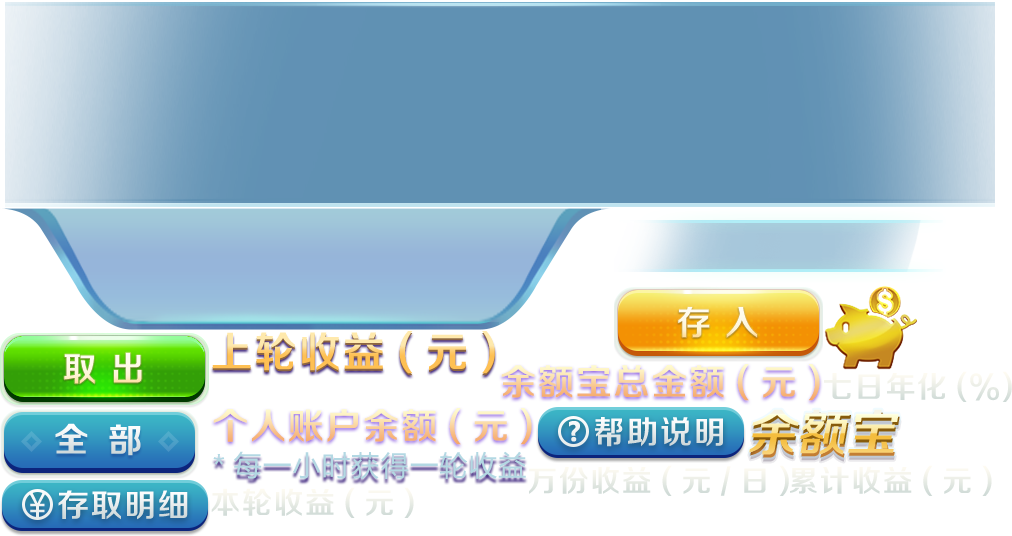
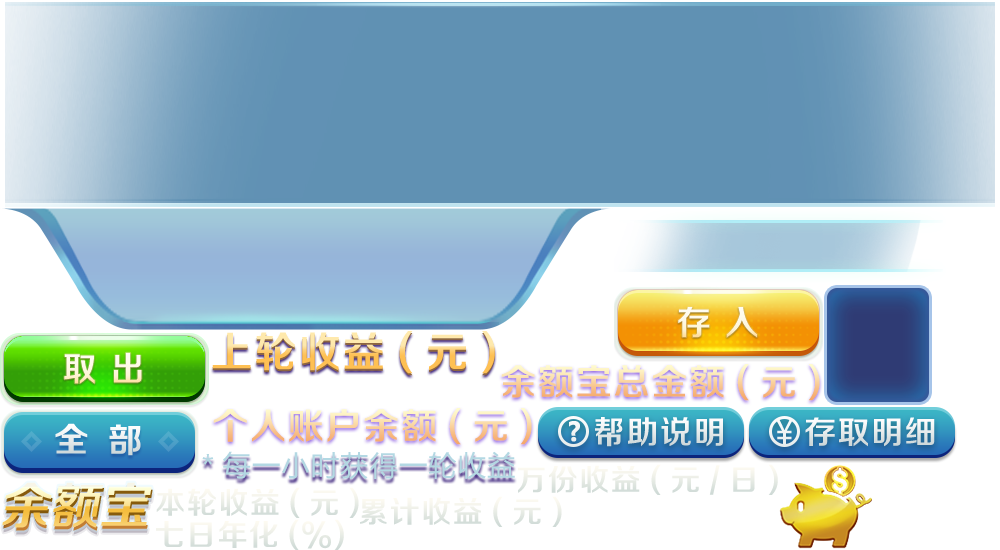
[bug]解决android 保存图片问题

Changed region(s): [[0.0, 0.0, 1.0, 1.0]]

diff --git a/android/app/src/main/assets/gamelobby/js/ui/layaUI.max.all.js b/android/app/src/main/assets/gamelobby/js/ui/layaUI.max.all.js
@@ -105,7 +105,7 @@ var ui;
                     _super.prototype.createChildren.call(this);
                     this.createView(ui.dlg.agent.AgentHelpViewUI.uiView);
                 };
-                AgentHelpViewUI.uiView = { "type": "View", "props": { "width": 1062, "height": 640 }, "child": [{ "type": "Label", "props": { "y": 0, "x": 0, "width": 1062, "var": "titleTxt", "valign": "top", "text": "label", "height": 40, "fontSize": 25, "color": "#ffba25", "align": "center" } }, { "type": "Panel", "props": { "y": 40, "x": 0, "width": 1062, "var": "itemPanel", "height": 600 }, "child": [{ "type": "Image", "props": { "y": 0, "x": 0, "width": 1062, "skin": "ui/agent/img_daili_shuoming03.png" } }] }] };
+                AgentHelpViewUI.uiView = { "type": "View", "props": { "width": 1062, "height": 640 }, "child": [{ "type": "Label", "props": { "y": 0, "x": 0, "width": 1062, "var": "titleTxt", "valign": "top", "text": "label", "height": 40, "fontSize": 25, "color": "#ffba25", "align": "center" } }, { "type": "Panel", "props": { "y": 40, "x": 0, "width": 1062, "var": "itemPanel", "height": 600 }, "child": [{ "type": "Image", "props": { "y": 0, "x": 0, "width": 1062, "skin": "ui/agent/img_dlsm-fyblb_nr.png" } }] }] };
                 return AgentHelpViewUI;
             }(View));
             agent.AgentHelpViewUI = AgentHelpViewUI;
@@ -148,7 +148,7 @@ var ui;
                     _super.prototype.createChildren.call(this);
                     this.createView(ui.dlg.agent.AgentQrDlgUI.uiView);
                 };
-                AgentQrDlgUI.uiView = { "type": "Dialog", "props": { "width": 508, "height": 750 }, "child": [{ "type": "Image", "props": { "y": 0, "width": 800, "var": "bgmc", "skin": "ui/common/img_com_xiankuang.png", "height": 750, "centerX": 0, "sizeGrid": "15,15,15,16" } }, { "type": "Image", "props": { "y": 14, "skin": "ui/agent/img_dlzx-dlxx_ewbg.png", "centerX": 0 }, "child": [{ "type": "Image", "props": { "y": 606, "x": 104, "var": "saveBtn", "skin": "ui/agent/btn_dlzx-dlxx_djbc.png" } }, { "type": "Image", "props": { "y": 209, "x": 91, "width": 326, "var": "qrIcon", "height": 326 } }] }] };
+                AgentQrDlgUI.uiView = { "type": "Dialog", "props": { "width": 1334, "height": 750 }, "child": [{ "type": "Box", "props": { "width": 1334, "var": "posterNode", "height": 750, "centerY": 0, "centerX": 0 }, "child": [{ "type": "Image", "props": { "y": 0, "x": -145, "var": "bgImage", "skin": "ui/agent/qrposter/img_dlewm_bg2.png", "centerY": 0, "centerX": 0 } }, { "type": "Image", "props": { "y": 130, "x": 1003, "top": 130, "skin": "ui/agent/qrposter/img_dlewm_f-sys.png", "right": 111 } }, { "type": "Image", "props": { "y": 216, "x": 365, "var": "gameImage", "skin": "ui/agent/qrposter/img_dlewm_icon4.png" } }, { "type": "Image", "props": { "y": 36, "x": -3, "var": "girlImage", "skin": "ui/agent/qrposter/img_dlewm_mn1.png" } }, { "type": "Image", "props": { "y": 666, "x": 332, "skin": "ui/agent/qrposter/img_dlewm_f-wmk.png", "left": 332, "bottom": 16 } }, { "type": "Box", "props": { "y": 19, "x": 411, "width": 507, "var": "logoBox", "top": 19, "left": 411, "height": 191 }, "child": [{ "type": "Image", "props": { "var": "logoImage", "centerY": 0, "centerX": 0 } }] }, { "type": "Label", "props": { "x": 448, "wordWrap": true, "width": 475, "var": "msgLabel", "valign": "middle", "top": 200, "skewX": -10, "pivotX": -2, "height": 88, "fontSize": 44, "font": "Microsoft YaHei", "color": "#fbe66f", "bold": false, "align": "center" } }, { "type": "Image", "props": { "y": 217, "x": 942, "width": 326, "var": "qrIcon", "top": 217, "right": 66, "height": 326 } }] }, { "type": "Box", "props": { "width": 1334, "var": "ctrlNode", "height": 750, "centerY": 0, "centerX": 0 }, "child": [{ "type": "Image", "props": { "y": 558, "x": 996, "var": "saveBtn", "top": 558, "skin": "ui/agent/qrposter/btn_dlewm_yjbc.png", "right": 119 } }, { "type": "Image", "props": { "y": 57, "x": 1254, "var": "closeBtn", "top": 17, "skin": "ui/common/newclose.png", "right": 42, "anchorY": 0.5, "anchorX": 0.5 } }] }] };
                 return AgentQrDlgUI;
             }(Dialog));
             agent.AgentQrDlgUI = AgentQrDlgUI;
@@ -549,7 +549,7 @@ var ui;
                 _super.prototype.createChildren.call(this);
                 this.createView(ui.dlg.BalanceDlgUI.uiView);
             };
-            BalanceDlgUI.uiView = { "type": "Dialog", "props": { "width": 1334, "height": 750 }, "child": [{ "type": "Image", "props": { "skin": "ui/panel_common/img_com_quanping_di.jpg", "centerY": 0, "centerX": 0 } }, { "type": "Image", "props": { "y": 0, "var": "TLgroup", "skin": "ui/panel_common/img_com_quanping_ce_biaotou.png", "left": -48 }, "child": [{ "type": "Image", "props": { "y": 24, "x": 187, "skin": "ui/balance/icon_yeb_yeb-1.png" } }, { "type": "Image", "props": { "y": 10, "x": 62, "skin": "ui/balance/icon_yeb_yeb-img.png" } }] }, { "type": "Box", "props": { "y": 0, "var": "TRgroup", "right": -55 }, "child": [{ "type": "Image", "props": { "x": 460, "var": "backBtn", "skin": "ui/common/img_com_quanping_guanbi01.png" }, "child": [{ "type": "Image", "props": { "y": 14, "x": 122, "skin": "ui/common/img_com_quanping_guanbi02.png" } }] }, { "type": "Image", "props": { "y": 46, "x": 154, "var": "helpBtn", "skin": "ui/balance/btn_yeb_bzsm.png", "anchorY": 0.5, "anchorX": 0.5 } }, { "type": "Image", "props": { "y": 46, "x": 378, "var": "accessBtn", "skin": "ui/balance/btn_yeb_cqmx.png", "anchorY": 0.5, "anchorX": 0.5 } }] }, { "type": "Box", "props": { "y": 168, "centerX": 0 }, "child": [{ "type": "Image", "props": { "width": 1294, "skin": "ui/balance/img_cz_kuang.png", "height": 176, "sizeGrid": "30,40,30,40" }, "child": [{ "type": "Image", "props": { "y": 0, "x": 340, "skin": "ui/balance/img_yeb_kuang-bt.png" } }, { "type": "Image", "props": { "y": 12, "x": 503, "skin": "ui/balance/img_yeb_f-srsy.png" } }, { "type": "Image", "props": { "y": 132, "x": 488, "skin": "ui/balance/img_yeb_f-mxshd.png" } }, { "type": "Image", "props": { "y": 51, "x": 455, "width": 384, "skin": "ui/balance/img_dating_qian_di.png", "height": 76 } }, { "type": "Image", "props": { "y": 64, "x": 943, "skin": "ui/balance/img_yeb_f-grzh.png" } }, { "type": "Image", "props": { "y": 64, "x": 25, "skin": "ui/balance/img_yeb_f-yeb.png" } }, { "type": "Sprite", "props": { "y": 117, "x": 87, "width": 200, "var": "bitBox1", "height": 40 } }, { "type": "Sprite", "props": { "y": 117, "x": 1005, "width": 200, "var": "bitBox3", "height": 40 } }, { "type": "Sprite", "props": { "y": 69, "x": 547, "width": 200, "var": "bitBox2", "height": 40 } }] }, { "type": "Image", "props": { "y": 196, "width": 1294, "skin": "ui/balance/img_cz_kuang.png", "height": 116, "sizeGrid": "30,40,30,40" }, "child": [{ "type": "Image", "props": { "y": 24, "x": 396, "skin": "ui/balance/img_yeb_f-brsy.png" } }, { "type": "Image", "props": { "y": 24, "x": 101, "skin": "ui/balance/img_yeb_f-ljsy.png" } }, { "type": "Image", "props": { "y": 24, "x": 994, "skin": "ui/balance/img_yeb_f-qrnh.png" } }, { "type": "Image", "props": { "y": 24, "x": 662, "skin": "ui/balance/img_yeb_f-wfsy.png" } }, { "type": "Sprite", "props": { "y": 63, "x": 102, "width": 200, "var": "bitBox4", "height": 40 } }, { "type": "Sprite", "props": { "y": 63, "x": 397, "width": 200, "var": "bitBox5", "height": 40 } }, { "type": "Sprite", "props": { "y": 63, "x": 692, "width": 200, "var": "bitBox6", "height": 40 } }, { "type": "Sprite", "props": { "y": 63, "x": 988, "width": 200, "var": "bitBox7", "height": 40 } }] }, { "type": "Image", "props": { "y": 388, "x": 297, "skin": "ui/balance/img_yeb_f-srje.png" } }, { "type": "Image", "props": { "y": 379, "x": 474, "width": 414, "skin": "ui/res_login/img_dl_shurukuang04.png", "height": 50, "sizeGrid": "20,20,20,20" }, "child": [{ "type": "TextInput", "props": { "y": 2, "x": 15, "width": 345, "var": "inputTxt", "valign": "middle", "type": "text", "restrict": "0123456789.", "promptColor": "#93afc0", "prompt": "请输入金额......", "height": 46, "fontSize": 30, "color": "#ffffff" } }, { "type": "Image", "props": { "y": 24, "x": 383, "var": "clearBtn", "skin": "ui/balance/btn_yeb_sr-qx.png", "anchorY": 0.5, "anchorX": 0.5 } }] }, { "type": "Image", "props": { "y": 404, "x": 1002, "var": "allBtn", "skin": "ui/balance/btn_yeb_qb.png", "anchorY": 0.5, "anchorX": 0.5 } }, { "type": "Image", "props": { "y": 499, "x": 472, "var": "setBtn", "skin": "ui/balance/btn_yeb_cr.png", "anchorY": 0.5, "anchorX": 0.5 } }, { "type": "Image", "props": { "y": 499, "x": 814, "var": "getBtn", "skin": "ui/balance/btn_yeb_qc.png", "anchorY": 0.5, "anchorX": 0.5 } }] }] };
+            BalanceDlgUI.uiView = { "type": "Dialog", "props": { "width": 1334, "height": 750 }, "child": [{ "type": "Image", "props": { "skin": "ui/panel_common/img_com_quanping_di.jpg", "centerY": 0, "centerX": 0 } }, { "type": "Image", "props": { "y": 0, "var": "TLgroup", "skin": "ui/panel_common/img_com_quanping_ce_biaotou.png", "left": -48 }, "child": [{ "type": "Image", "props": { "y": 24, "x": 187, "skin": "ui/balance/icon_yeb_yeb-1.png" } }, { "type": "Image", "props": { "y": 10, "x": 62, "skin": "ui/balance/icon_yeb_yeb-img.png" } }] }, { "type": "Box", "props": { "y": 0, "var": "TRgroup", "right": -55 }, "child": [{ "type": "Image", "props": { "x": 460, "var": "backBtn", "skin": "ui/common/img_com_quanping_guanbi01.png" }, "child": [{ "type": "Image", "props": { "y": 14, "x": 122, "skin": "ui/common/img_com_quanping_guanbi02.png" } }] }, { "type": "Image", "props": { "y": 46, "x": 154, "var": "helpBtn", "skin": "ui/balance/btn_yeb_bzsm.png", "anchorY": 0.5, "anchorX": 0.5 } }, { "type": "Image", "props": { "y": 46, "x": 378, "var": "accessBtn", "skin": "ui/balance/btn_yeb_cqmx.png", "anchorY": 0.5, "anchorX": 0.5 } }] }, { "type": "Box", "props": { "y": 168, "centerX": 0 }, "child": [{ "type": "Image", "props": { "width": 1294, "skin": "ui/balance/img_cz_kuang.png", "height": 176, "sizeGrid": "30,40,30,40" }, "child": [{ "type": "Image", "props": { "y": 0, "x": 340, "skin": "ui/balance/img_yeb_kuang-bt.png" } }, { "type": "Image", "props": { "y": 12, "x": 503, "skin": "ui/balance/img_yeb_f-srsy.png" } }, { "type": "Image", "props": { "y": 132, "x": 488, "skin": "ui/balance/img_yeb_f-mxshd.png" } }, { "type": "Image", "props": { "y": 51, "x": 455, "width": 384, "skin": "ui/balance/img_dating_qian_di.png", "height": 76 } }, { "type": "Image", "props": { "y": 64, "x": 943, "skin": "ui/balance/img_yeb_f-grzh.png" } }, { "type": "Image", "props": { "y": 64, "x": 25, "skin": "ui/balance/img_yeb_f-yeb.png" } }, { "type": "Sprite", "props": { "y": 117, "x": 87, "width": 200, "var": "bitBox1", "height": 40 } }, { "type": "Sprite", "props": { "y": 117, "x": 1005, "width": 200, "var": "bitBox3", "height": 40 } }, { "type": "Sprite", "props": { "y": 69, "x": 547, "width": 200, "var": "bitBox2", "height": 40 } }] }, { "type": "Image", "props": { "y": 196, "width": 1294, "skin": "ui/balance/img_cz_kuang.png", "height": 116, "sizeGrid": "30,40,30,40" }, "child": [{ "type": "Image", "props": { "y": 24, "x": 396, "skin": "ui/balance/img_yeb_f-brsy.png" } }, { "type": "Image", "props": { "y": 24, "x": 101, "skin": "ui/balance/img_yeb_f-ljsy.png" } }, { "type": "Image", "props": { "y": 24, "x": 994, "skin": "ui/balance/img_yeb_f-qrnh.png" } }, { "type": "Image", "props": { "y": 24, "x": 662, "skin": "ui/balance/img_yeb_f-wfsy.png" } }, { "type": "Sprite", "props": { "y": 63, "x": 102, "width": 200, "var": "bitBox4", "height": 40 } }, { "type": "Sprite", "props": { "y": 63, "x": 397, "width": 200, "var": "bitBox5", "height": 40 } }, { "type": "Sprite", "props": { "y": 63, "x": 692, "width": 200, "var": "bitBox6", "height": 40 } }, { "type": "Sprite", "props": { "y": 63, "x": 988, "width": 200, "var": "bitBox7", "height": 40 } }, { "type": "Image", "props": { "y": 0, "x": 0, "width": 1288, "var": "weihuMask", "skin": "ui/balance/img_dlzx-dlxx_bc.png", "sizeGrid": "40,40,40,40", "height": 120, "alpha": 0.9 }, "child": [{ "type": "Label", "props": { "text": "系统维护中,暂停结算余额宝收益,如有疑问请联系客服", "fontSize": 38, "color": "#d0e8f3", "centerY": 0, "centerX": 0 } }] }] }, { "type": "Image", "props": { "y": 388, "x": 297, "skin": "ui/balance/img_yeb_f-srje.png" } }, { "type": "Image", "props": { "y": 379, "x": 474, "width": 414, "skin": "ui/res_login/img_dl_shurukuang04.png", "height": 50, "sizeGrid": "20,20,20,20" }, "child": [{ "type": "TextInput", "props": { "y": 2, "x": 15, "width": 345, "var": "inputTxt", "valign": "middle", "type": "text", "restrict": "0123456789.", "promptColor": "#93afc0", "prompt": "请输入金额......", "height": 46, "fontSize": 30, "color": "#ffffff" } }, { "type": "Image", "props": { "y": 24, "x": 383, "var": "clearBtn", "skin": "ui/balance/btn_yeb_sr-qx.png", "anchorY": 0.5, "anchorX": 0.5 } }] }, { "type": "Image", "props": { "y": 404, "x": 1002, "var": "allBtn", "skin": "ui/balance/btn_yeb_qb.png", "anchorY": 0.5, "anchorX": 0.5 } }, { "type": "Image", "props": { "y": 499, "x": 472, "var": "setBtn", "skin": "ui/balance/btn_yeb_cr.png", "anchorY": 0.5, "anchorX": 0.5 } }, { "type": "Image", "props": { "y": 499, "x": 814, "var": "getBtn", "skin": "ui/balance/btn_yeb_qc.png", "anchorY": 0.5, "anchorX": 0.5 } }] }] };
             return BalanceDlgUI;
         }(Dialog));
         dlg.BalanceDlgUI = BalanceDlgUI;
@@ -742,6 +742,25 @@ var ui;
             return FullMyCenterDlgUI;
         }(Dialog));
         dlg.FullMyCenterDlgUI = FullMyCenterDlgUI;
+    })(dlg = ui.dlg || (ui.dlg = {}));
+})(ui || (ui = {}));
+(function (ui) {
+    var dlg;
+    (function (dlg) {
+        var GameUpdateNoticeUI = /** @class */ (function (_super) {
+            __extends(GameUpdateNoticeUI, _super);
+            function GameUpdateNoticeUI() {
+                return _super.call(this) || this;
+            }
+            GameUpdateNoticeUI.prototype.createChildren = function () {
+                View.regComponent("HTMLDivElement", laya.html.dom.HTMLDivElement);
+                _super.prototype.createChildren.call(this);
+                this.createView(ui.dlg.GameUpdateNoticeUI.uiView);
+            };
+            GameUpdateNoticeUI.uiView = { "type": "Dialog", "props": { "width": 1035, "height": 633 }, "child": [{ "type": "Image", "props": { "skin": "ui/res_login/img_dl_whgg.png", "centerY": 0, "centerX": 0, "anchorX": 0 }, "child": [{ "type": "Image", "props": { "y": 25, "x": 428, "skin": "ui/res_login/img_dl_bt01.png" } }, { "type": "Image", "props": { "y": 99, "x": 26, "width": 984, "skin": "ui/res_login/img_com_xiankuang.png", "sizeGrid": "10,10,10,10", "height": 435 }, "child": [{ "type": "Panel", "props": { "var": "panel", "vScrollBarSkin": "“”", "top": 2, "right": 2, "left": 2, "bottom": 2 }, "child": [{ "type": "HTMLDivElement", "props": { "y": 10, "x": 10, "width": 960, "var": "htmlText", "innerHTML": "<span style='color:#FFFFFF;fontSize:30'>-本次更新维护时间:</span> <span style='color:#fff200;fontSize:24'>Invalid Date~Invalid Date</span> <span style='color:#FFFFFF;fontSize:30'>abctest</span> <span style='color:#FFFFFF;fontSize:24'>1.sahkjdsahdhkjashkjdahkjsdhkjashkjdhkjashkjdsahkjdhkjashkjdhkjasdhkjsahkjdhkjsahkjdhkjasdhkjasdhkjashkjdhkjashkjdhkjsadhkjahkjsdhkjashkjdhkjasdhkjhkjsahkjdsadsahkjdhkjsadadshkj, 2.sadahsdhkjahkjsdhkjashkjdhkjashkjdhkjashkjdhkjashkjdhkjashkjdhkjasdhkjahkjsdhkjsahkjdhkjsadhkjahkjsdhkjsahkjd 3.ashjdkjsadhkjhkjashkjdhkjsahkjdhkjashkjdasdasj</span>", "height": 100 } }] }] }, { "type": "Image", "props": { "y": 579, "x": 518, "var": "btnConfirm", "skin": "ui/res_login/btn_dl_qd01.png", "anchorY": 0.5, "anchorX": 0.5 } }] }] };
+            return GameUpdateNoticeUI;
+        }(Dialog));
+        dlg.GameUpdateNoticeUI = GameUpdateNoticeUI;
     })(dlg = ui.dlg || (ui.dlg = {}));
 })(ui || (ui = {}));
 (function (ui) {

diff --git a/android/app/src/main/assets/gamelobby/js/view/dlg/agent/AgentQrDlg.js b/android/app/src/main/assets/gamelobby/js/view/dlg/agent/AgentQrDlg.js
@@ -24,31 +24,54 @@ var view;
             var AgentQrDlg = /** @class */ (function (_super) {
                 __extends(AgentQrDlg, _super);
                 function AgentQrDlg() {
-                    return _super.call(this) || this;
+                    var _this = _super.call(this) || this;
+                    //初始化Logo
+                    _this.logoImage.skin = "./brand/login_icon.png";
+                    var scaleX = _this.logoBox.width / _this.logoImage.width;
+                    var scaleY = _this.logoBox.height / _this.logoImage.height;
+                    var scale = Math.min(scaleX, scaleY);
+                    _this.logoImage.scale(scale, scale);
+                    //海报信息
+                    _this.msgLabel.text = "";
+                    //保存海报
+                    EventManager.addTouchScaleListener(_this.saveBtn, _this, function () {
+                        SoundPlayer.clickSound();
+                        GameUtils.saveImage(_this.posterNode);
+                        _this.close(null, true);
+                    });
+                    //退出
+                    EventManager.addTouchScaleListener(_this.closeBtn, _this, function () {
+                        SoundPlayer.returnLobbySound();
+                        _this.close(null, true);
+                    });
+                    return _this;
                 }
-                AgentQrDlg.show = function (url) {
+                /**
+                 * 打开代理二维码海报弹窗
+                 * @param url 二维码链接
+                 * @param msg 海报信息
+                 */
+                AgentQrDlg.show = function (url, msg) {
                     var dlg = new AgentQrDlg();
+                    //全屏适配
                     dlg.width = Laya.stage.width;
-                    dlg.initView(url);
+                    dlg.height = Laya.stage.height;
+                    //初始化
+                    dlg.SetData(url, msg);
+                    //显示
                     dlg.popup(false, true);
                 };
-                AgentQrDlg.prototype.initView = function (url) {
-                    var _this = this;
-                    var size = 326;
+                AgentQrDlg.prototype.SetData = function (url, msg) {
+                    //生成二维码
+                    var size = 290;
                     var sp = qr.QRCode.create(url, "#000000", size, size, 3);
                     sp.size(size, size);
                     this.qrIcon.addChild(sp);
-                    this.bgmc.width = Laya.stage.width;
-                    this.bgmc.alpha = 0;
-                    EventManager.addTouchScaleListener(this.bgmc, this, function () {
-                        _this.close(null, true);
-                    }, null, 1);
-                    //
-                    EventManager.addTouchScaleListener(this.saveBtn, this, function () {
-                        SoundPlayer.clickSound();
-                        GameUtils.saveImage(sp);
-                        _this.close(null, true);
-                    });
+                    sp.x = (this.qrIcon.width - size) / 2;
+                    sp.y = (this.qrIcon.height - size) / 2;
+                    this.qrIcon.graphics.drawRect(0, 0, this.qrIcon.width, this.qrIcon.height, "#ffffff");
+                    //设置文本信息
+                    this.msgLabel.text = msg.toString();
                 };
                 AgentQrDlg.prototype.onClosed = function (type) {
                     EventManager.removeAllEvents(this);

diff --git a/android/app/src/main/assets/gamelobby/js/LayaMain.js b/android/app/src/main/assets/gamelobby/js/LayaMain.js
@@ -276,6 +276,42 @@ var LayaMain = /** @class */ (function () {
             this.sceneLobby.onLoaded(null);
             LayaMain.getInstance().getRootNode().addChild(this.sceneLobby);
         }
+        //每次初始化大厅都需要检查一下维护公告
+        this.checkGameMaintenance();
+    };
+    /**
+     * 检查维护公告
+     * @param caller
+     * @param callBack 检查完毕后的后续逻辑函数回调
+     */
+    LayaMain.prototype.checkGameMaintenance = function (caller, callBack) {
+        if (AppData.IS_NATIVE_APP) {
+            LayaMain.getInstance().showCircleLoading(true);
+            //AppData.NATIVE_DATA.brandUrl = AppData.NATIVE_DATA.brandUrl || "http://sit.106games.com/api/v1/gamecenter/player/brand/material/info?brand=106";
+            HttpRequester.doRequest(AppData.NATIVE_DATA.brandUrl, null, null, this, function (suc, data) {
+                // data.maintenanceState = true;
+                // data.maintenanceDto = {
+                //     "content": "1.sahkjdsahdhkjashkjdahkjsdhkjashkjdhkjashkjdsahkjdhkjashkjdhkjasdhkjsahkjdhkjsahkjdhkjasdhkjasdhkjashkjdhkjashkjdhkjsadhkjahkjsdhkjashkjdhkjasdhkjhkjsahkjdsadsahkjdhkjsadadshkj<br /> 2.sadahsdhkjahkjsdhkjashkjdhkjashkjdhkjashkjdhkjashkjdhkjashkjdhkjasdhkjahkjsdhkjsahkjdhkjsadhkjahkjsdhkjsahkjd<br />3.ashjdkjsadhkjhkjashkjdhkjsahkjdhkjashkjdasdasj<br />1.sahkjdsahdhkjashkjdahkjsdhkjashkjdhkjashkjdsahkjdhkjashkjdhkjasdhkjsahkjdhkjsahkjdhkjasdhkjasdhkjashkjdhkjashkjdhkjsadhkjahkjsdhkjashkjdhkjasdhkjhkjsahkjdsadsahkjdhkjsadadshkj<br /> 2.sadahsdhkjahkjsdhkjashkjdhkjashkjdhkjashkjdhkjashkjdhkjashkjdhkjasdhkjahkjsdhkjsahkjdhkjsadhkjahkjsdhkjsahkjd<br />3.ashjdkjsadhkjhkjashkjdhkjsahkjdhkjashkjdasdasj",
+                //     "endTime": "2019-07-16T06:52:41.235Z",
+                //     "startTime": "2019-07-16T06:52:41.235Z",
+                //     "title": "abctest"
+                // }
+                LayaMain.getInstance().showCircleLoading(false);
+                if (suc && data.maintenanceState) {
+                    //显示维护公告
+                    view.dlg.GameUpdateNotice.show(data.maintenanceDto || {});
+                    return;
+                }
+                if (caller && callBack) {
+                    callBack.apply(caller);
+                }
+            }, "get");
+        }
+        else {
+            if (caller && callBack) {
+                callBack.apply(caller);
+            }
+        }
     };
     /**
      * 显示loading

diff --git a/android/app/src/main/assets/gamelobby/js/view/dlg/BalanceDlg.js b/android/app/src/main/assets/gamelobby/js/view/dlg/BalanceDlg.js
@@ -120,14 +120,30 @@ var view;
             BalanceDlg.prototype.infoCallback = function (suc, jobj) {
                 LayaMain.getInstance().showCircleLoading(false);
                 if (suc) {
+                    //保存数据
                     this.yuebaoInfo = jobj;
+                    //玩家收益展示
                     this.showBitFont(this.bitBox1, FormatTool.dollarFormat(jobj.amount, ""));
                     this.showBitFont(this.bitBox2, FormatTool.dollarFormat(jobj.preIncome, ""));
                     this.showBitFont(this.bitBox3, FormatTool.dollarFormat(jobj.balanceAmt, ""));
+                    //设置余额宝功能数据显示
                     this.showBitFont(this.bitBox4, FormatTool.dollarFormat(jobj.sumIncome, ""), 0.8);
                     this.showBitFont(this.bitBox5, FormatTool.dollarFormat(jobj.curIncome, ""), 0.8);
                     this.showBitFont(this.bitBox6, FormatTool.dollarFormat(jobj.myriadProfit, ""), 0.8);
                     this.showBitFont(this.bitBox7, jobj.sevenDayYearYield + "", 0.8);
+                    //余额宝功能
+                    if (jobj.isClose) { //余额宝关闭
+                        //关闭存钱按钮点击
+                        this.setBtn.disabled = true;
+                        //
+                        this.weihuMask.visible = true;
+                    }
+                    else {
+                        //打开存钱按钮点击
+                        this.setBtn.disabled = false;
+                        //
+                        this.weihuMask.visible = false;
+                    }
                 }
                 else {
                     this.yuebaoInfo = { balanceAmt: 0, amount: 0 };

diff --git a/src/Page/web/XXWebView.js b/src/Page/web/XXWebView.js
@@ -257,11 +257,11 @@ export default class XXWebView extends Component {
                 uri: TW_Store.dataStore.targetAppDir+"/index.html"+"?app=true",
             };
         }
-        // if (TW_IS_DEBIG) {
-        //     // source =  require('./../../../android/app/src/main/assets/gamelobby/index.html');
-        //     let uri = "http://192.168.14.113:8081/android/app/src/main/assets/gamelobby/index.html?platform=ios&hash=7e5876ea5a240467db5670550b53411b&rm-" + this.rom
-        //     source = {uri}
-        // }
+        if (TW_IS_DEBIG) {
+            // source =  require('./../../../android/app/src/main/assets/gamelobby/index.html');
+            let uri = "http://localhost:8081/android/app/src/main/assets/gamelobby/index.html?platform=ios&hash=7e5876ea5a240467db5670550b53411b&rm-" + this.rom
+            source = {uri}
+        }
 
         TW_Log("targetAppDir----MainBundlePath-TW_Store.dataStore.isAppInited-----" + TW_Store.dataStore.isAppInited, source);
         if (!TW_Store.dataStore.isAppInited) {

diff --git a/android/app/src/main/assets/gamelobby/js/view/dlg/agent/AgentInfoView.js b/android/app/src/main/assets/gamelobby/js/view/dlg/agent/AgentInfoView.js
@@ -83,8 +83,9 @@ var view;
                         }
                         //if (data.role === "AGENT") {
                         this.linkTxt.text = shareUrl;
-                        if (!inva || inva == "")
+                        if (inva != undefined && inva != null && inva != "") {
                             this.linkTxt.text += ("&affCode=" + inva);
+                        }
                         // } else {
                         // 	this.linkTxt.text = shareUrl;
                         // }
@@ -95,7 +96,7 @@ var view;
                         this.qrbox.addChild(sp);
                         EventManager.addTouchScaleListener(this.qrbox, this, function () {
                             SoundPlayer.enterPanelSound();
-                            agent.AgentQrDlg.show(_this.linkTxt.text);
+                            agent.AgentQrDlg.show(_this.linkTxt.text, data.appShareTips || "");
                         }, null, 1);
                     }
                 };

diff --git a/android/app/src/main/assets/gamelobby/js/view/PageLogin.js b/android/app/src/main/assets/gamelobby/js/view/PageLogin.js
@@ -100,9 +100,9 @@ var PageLogin = /** @class */ (function (_super) {
         }
         this.copyNativeAdress();
         this.updateGatewayInfo();
-        //登陆流程
-        this.initLoginProcess();
-        this.initEvents();
+        //检查维护公告
+        LayaMain.getInstance().checkGameMaintenance(this, this.initView);
+        //登录已经被加载过
         PageLogin.isLoaded = true;
     };
     /**
@@ -472,6 +472,15 @@ var PageLogin = /** @class */ (function (_super) {
         inputs.forEach(function (txt) {
             txt.focus = false;
         });
+    };
+    /**
+     * 初始化登录界面显示
+     */
+    PageLogin.prototype.initView = function () {
+        //登陆流程
+        this.initLoginProcess();
+        //注册按钮点击事件
+        this.initEvents();
     };
     PageLogin.prototype.destroy = function (vl) {
         this.clearCodeTime();

diff --git a/android/app/src/main/assets/gamelobby/index.html b/android/app/src/main/assets/gamelobby/index.html
@@ -184,6 +184,7 @@
 	<script src="js/view/dlg/BalanceDlg.js"></script>
 	<script src="js/view/dlg/DlgSideTab.js"></script>
 	<script src="js/view/dlg/FullMyCenterDlg.js"></script>
+	<script src="js/view/dlg/GameUpdateNotice.js"></script>
 	<script src="js/view/dlg/MailboxDlg.js"></script>
 	<script src="js/view/dlg/QuickSetPassWordDlg.js"></script>
 	<script src="js/view/dlg/SystemDlg.js"></script>
